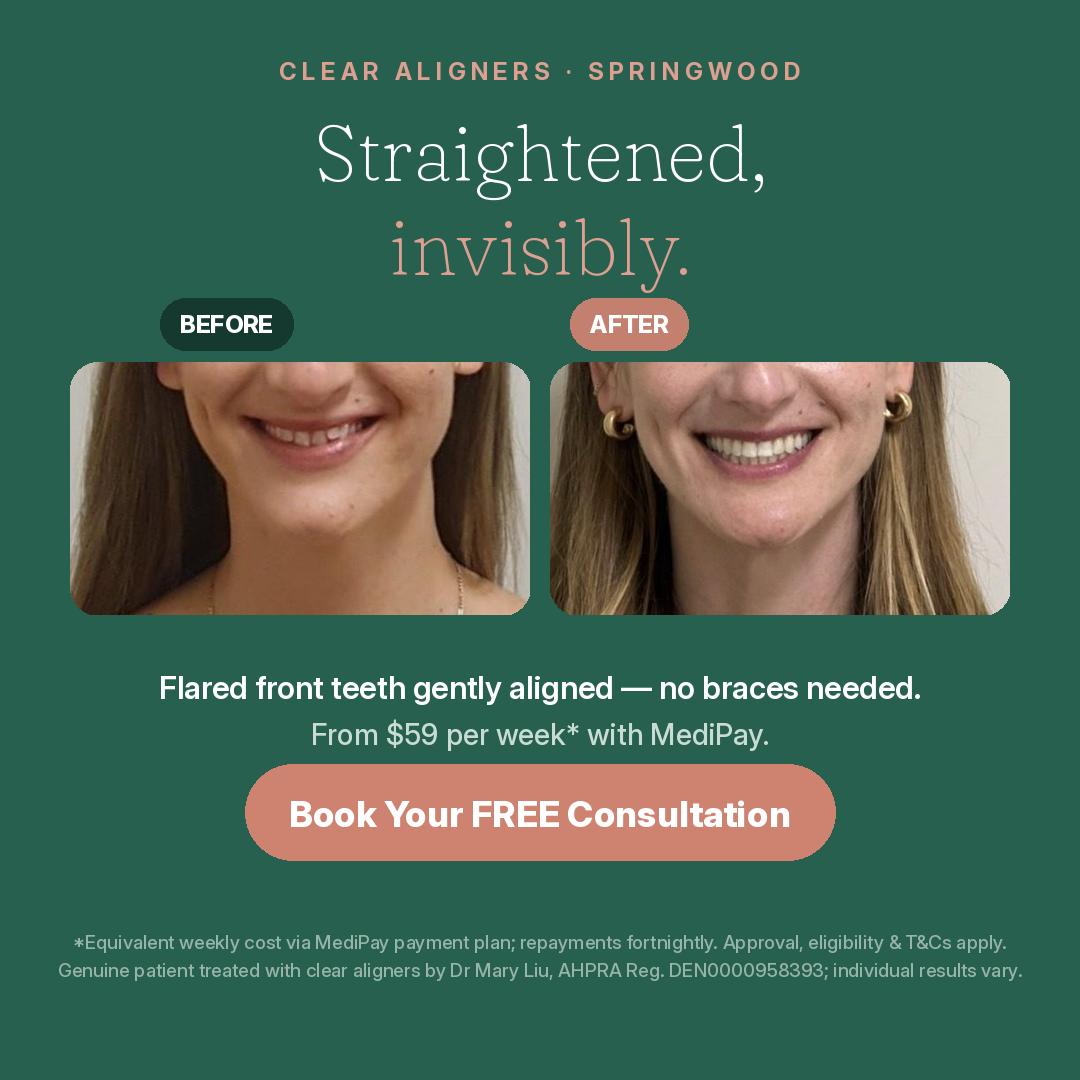
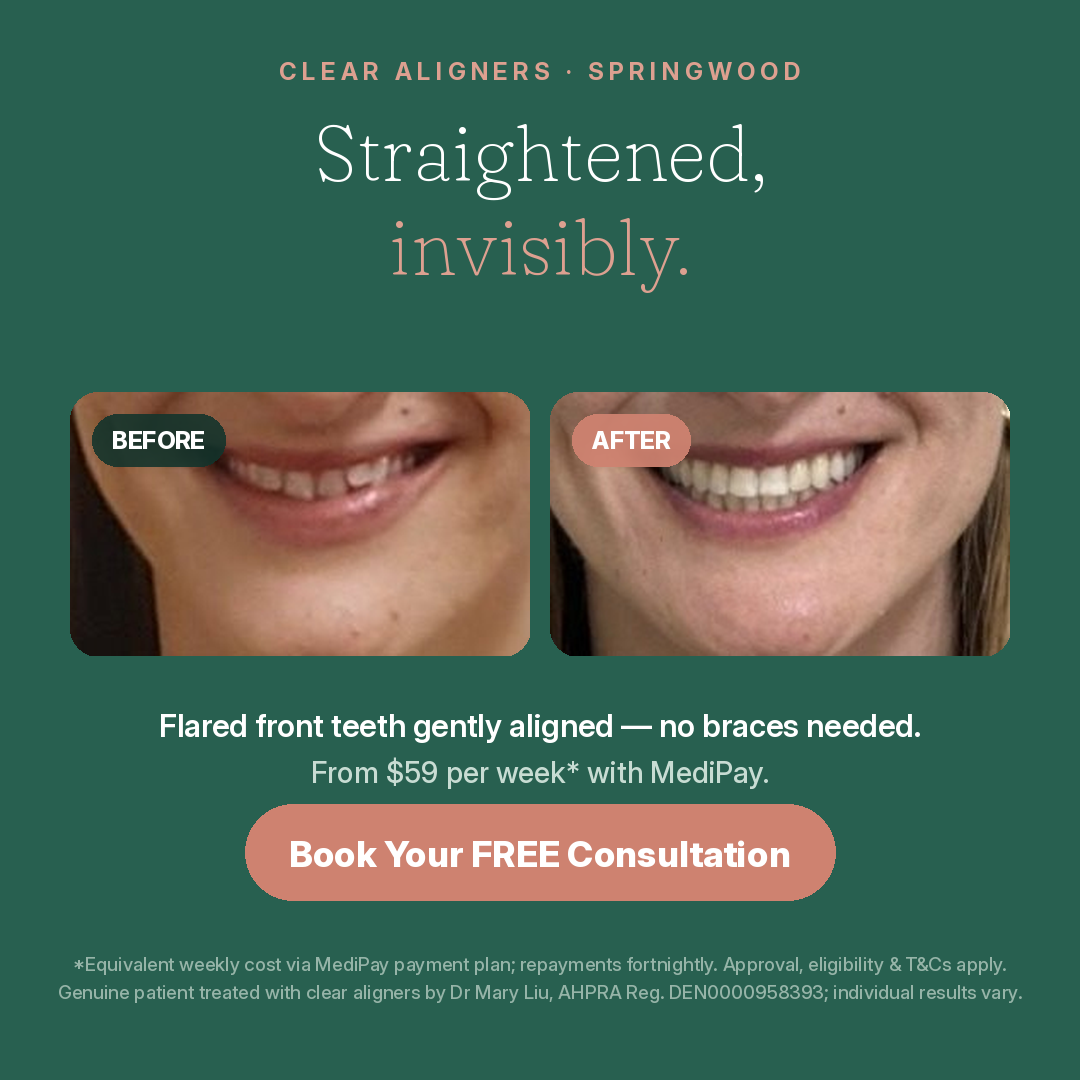
Add files via upload

Changed region(s): [[0.0611, 0.275, 0.9472, 0.9472]]

diff --git a/landing-pages/clear-aligners.html b/landing-pages/clear-aligners.html
@@ -170,6 +170,8 @@ footer a{color:var(--salmon);text-decoration:none}
 .ba-item{position:relative;border-radius:14px;overflow:hidden;background:var(--cream)}
 .ba-item img{width:100%;height:100%;object-fit:cover;display:block}
 .ba-faces .ba-item img{aspect-ratio:5/4}
+.ba-faces .ba-card:first-child .ba-item img{aspect-ratio:3/4}
+.ba-faces .ba-card:last-child .ba-item img{aspect-ratio:16/9}
 .ba-teeth .ba-item img{aspect-ratio:5/3}
 .ba-pill{position:absolute;top:10px;left:10px;font-size:.66rem;font-weight:800;letter-spacing:.09em;text-transform:uppercase;padding:5px 11px;border-radius:999px;color:#fff;background:rgba(18,51,43,.85);backdrop-filter:blur(4px);z-index:2}
 .ba-pill.after{background:linear-gradient(135deg,var(--salmon),var(--salmon-deep));color:#fff}
@@ -330,15 +332,15 @@ footer a{color:var(--salmon);text-decoration:none}
     <div class="ba-faces">
       <div class="ba-card">
         <div class="ba-pair">
-          <div class="ba-item"><img src="images/wide-displaced-before.jpg" alt="Smile before clear aligner treatment for a displaced side tooth" loading="lazy"><span class="ba-pill">Before</span></div>
-          <div class="ba-item"><img src="images/wide-displaced-after.jpg" alt="Smile after clear aligner treatment for a displaced side tooth" loading="lazy"><span class="ba-pill after">After</span></div>
+          <div class="ba-item"><img src="images/wide-displaced-before.jpg" alt="Before clear aligner treatment for a displaced side tooth" loading="lazy"><span class="ba-pill">Before</span></div>
+          <div class="ba-item"><img src="images/wide-displaced-after.jpg" alt="After clear aligner treatment for a displaced side tooth" loading="lazy"><span class="ba-pill after">After</span></div>
         </div>
         <div class="ba-caption"><h3>Tucked-in side tooth</h3><p>A displaced side tooth guided into line for an even, open smile.</p></div>
       </div>
       <div class="ba-card">
         <div class="ba-pair">
-          <div class="ba-item"><img src="images/wide-flared-before.jpg" alt="Smile before clear aligner treatment for flared upper front teeth" loading="lazy"><span class="ba-pill">Before</span></div>
-          <div class="ba-item"><img src="images/wide-flared-after.jpg" alt="Smile after clear aligner treatment for flared upper front teeth" loading="lazy"><span class="ba-pill after">After</span></div>
+          <div class="ba-item"><img src="images/idsafe-flared-before.jpg" alt="Smile before clear aligner treatment for flared upper front teeth" loading="lazy"><span class="ba-pill">Before</span></div>
+          <div class="ba-item"><img src="images/idsafe-flared-after.jpg" alt="Smile after clear aligner treatment for flared upper front teeth" loading="lazy"><span class="ba-pill after">After</span></div>
         </div>
         <div class="ba-caption"><h3>Flared front teeth</h3><p>Upper front teeth gently brought back into line for a balanced, confident smile.</p></div>
       </div>

diff --git a/source-scripts/gen_ba_ads.py b/source-scripts/gen_ba_ads.py
@@ -73,14 +73,14 @@ def results_pair():
     ct(d,W/2,56,'C L E A R   A L I G N E R S   ·   S P R I N G W O O D',inter(24,700),SALM)
     ct(d,W/2,104,'Straightened,',fraunces(78,560),WHITE)
     ct(d,W/2,198,'invisibly.',fraunces(78,480),SALM)
-    photo(im,IMG+'wide-flared-before.jpg',(70,362,530,615),r=28)
-    photo(im,IMG+'wide-flared-after.jpg',(550,362,1010,615),r=28)
-    tagpill(im,d,160,298,'BEFORE'); tagpill(im,d,570,298,'AFTER',after=True)
+    photo(im,IMG+'idsafe-flared-before.jpg',(70,392,530,656),r=28)
+    photo(im,IMG+'idsafe-flared-after.jpg',(550,392,1010,656),r=28)
+    tagpill(im,d,92,414,'BEFORE'); tagpill(im,d,572,414,'AFTER',after=True)
     d=ImageDraw.Draw(im)
-    ct(d,W/2,668,'Flared front teeth gently aligned — no braces needed.',inter(31,600),WHITE)
-    ct(d,W/2,716,'From $59 per week* with MediPay.',inter(29,500),(200,220,211))
-    pill(d,W/2,812,'Book Your FREE Consultation',inter(36,800),WHITE,SALMD)
-    disc2(d,930,(150,180,168))
+    ct(d,W/2,706,'Flared front teeth gently aligned — no braces needed.',inter(31,600),WHITE)
+    ct(d,W/2,754,'From $59 per week* with MediPay.',inter(29,500),(200,220,211))
+    pill(d,W/2,852,'Book Your FREE Consultation',inter(36,800),WHITE,SALMD)
+    disc2(d,952,(150,180,168))
     return im
 
 results_featured().convert('RGB').save(OUT+'aligners-ad-6-results.png','PNG')
